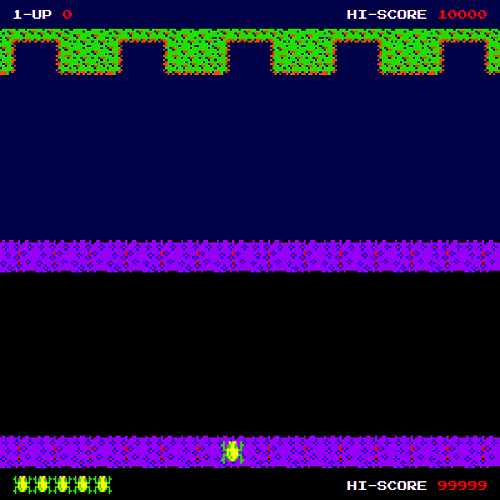
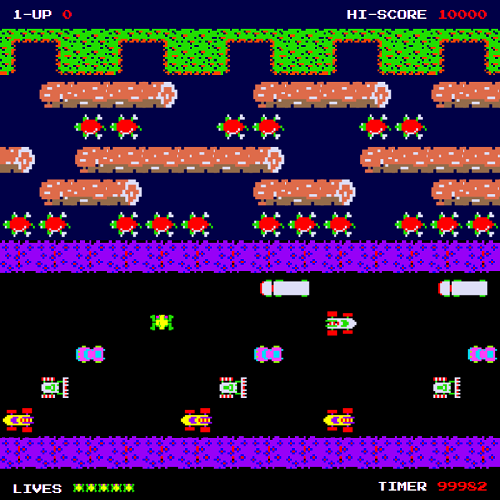
Filled board with sprites

diff --git a/src/components/frogger/frogger.tsx b/src/components/frogger/frogger.tsx
@@ -53,9 +53,9 @@ export default class Frogger extends React.Component<IFroggerProps, IFroggerStat
 			{ !this.state.isGameInPlay && <InfoBoard gameOver={ this.state.player.lives < 1 } startGame={ this.startGame } score={ this.state.player.score } /> }
 
 			{ this.state.isGameInPlay && <div>
-				<DrawSprite sprite={ this.state.player } />
+				{ this.state.sprites?.map((sprite: ISprite) => <DrawSprite key={ sprite.key } sprite={ sprite } />) }
 
-				{ this.state.sprites?.map((sprite: ISprite) => <DrawSprite sprite={ sprite } />) }
+				<DrawSprite sprite={ this.state.player } />
 			</div> }
 
 			<GameStatusBottom lives={ this.state.player.lives } timer={ this.state.time } />
@@ -113,18 +113,86 @@ export default class Frogger extends React.Component<IFroggerProps, IFroggerStat
 	private setupSprites = async () => {
 		const sprites = [
 			new Sprite({ key: 'car1-1', x: 1, y: 12, direction: DirectionEnum.LEFT, image: ImageEnum.CAR1, speed: 1 }),
-			new Sprite({ key: 'car1-2', x: 5, y: 12, direction: DirectionEnum.LEFT, image: ImageEnum.CAR1, speed: 1 }),
-			new Sprite({ key: 'car1-3', x: 9, y: 12, direction: DirectionEnum.LEFT, image: ImageEnum.CAR1, speed: 1 }),
-			new Sprite({ key: 'car1-4', x: 13, y: 12, direction: DirectionEnum.LEFT, image: ImageEnum.CAR1, speed: 1 }),
+			new Sprite({ key: 'car1-2', x: 6, y: 12, direction: DirectionEnum.LEFT, image: ImageEnum.CAR1, speed: 1 }),
+			new Sprite({ key: 'car1-3', x: 10, y: 12, direction: DirectionEnum.LEFT, image: ImageEnum.CAR1, speed: 1 }),
 
-			new Sprite({ key: 'car2', x: 3, y: 11, direction: DirectionEnum.RIGHT, image: ImageEnum.CAR2, speed: 1 }),
+			new Sprite({ key: 'car2-1', x: 2, y: 11, direction: DirectionEnum.RIGHT, image: ImageEnum.CAR2, speed: 1 }),
+			new Sprite({ key: 'car2-2', x: 7, y: 11, direction: DirectionEnum.RIGHT, image: ImageEnum.CAR2, speed: 1 }),
+			new Sprite({ key: 'car2-3', x: 13, y: 11, direction: DirectionEnum.RIGHT, image: ImageEnum.CAR2, speed: 1 }),
 
-			new Sprite({ key: 'car3', x: 5, y: 10, direction: DirectionEnum.LEFT, image: ImageEnum.CAR3, speed: 1 }),
+			new Sprite({ key: 'car3-1', x: 3, y: 10, direction: DirectionEnum.LEFT, image: ImageEnum.CAR3, speed: 1 }),
+			new Sprite({ key: 'car3-2', x: 8, y: 10, direction: DirectionEnum.LEFT, image: ImageEnum.CAR3, speed: 1 }),
+			new Sprite({ key: 'car3-3', x: 14, y: 10, direction: DirectionEnum.LEFT, image: ImageEnum.CAR3, speed: 1 }),
 
 			new Sprite({ key: 'car4', x: 10, y: 9, direction: DirectionEnum.RIGHT, image: ImageEnum.CAR4, speed: 1 }),
 
 			new Sprite({ key: 'lorry-front-1', x: 8, y: 8, direction: DirectionEnum.LEFT, image: ImageEnum.LORRY_FRONT, speed: 1 }),
 			new Sprite({ key: 'lorry-back-1', x: 9, y: 8, direction: DirectionEnum.LEFT, image: ImageEnum.LORRY_BACK, speed: 1 }),
+			new Sprite({ key: 'lorry-front-2', x: 13, y: 8, direction: DirectionEnum.LEFT, image: ImageEnum.LORRY_FRONT, speed: 1 }),
+			new Sprite({ key: 'lorry-back-2', x: 14, y: 8, direction: DirectionEnum.LEFT, image: ImageEnum.LORRY_BACK, speed: 1 }),
+
+			new Sprite({ key: 'turtle1-1', x: 1, y: 6, direction: DirectionEnum.LEFT, image: ImageEnum.TURTLE1, speed: 1 }),
+			new Sprite({ key: 'turtle1-2', x: 2, y: 6, direction: DirectionEnum.LEFT, image: ImageEnum.TURTLE1, speed: 1 }),
+
+			new Sprite({ key: 'turtle1-3', x: 4, y: 6, direction: DirectionEnum.LEFT, image: ImageEnum.TURTLE1, speed: 1 }),
+			new Sprite({ key: 'turtle1-4', x: 5, y: 6, direction: DirectionEnum.LEFT, image: ImageEnum.TURTLE1, speed: 1 }),
+			new Sprite({ key: 'turtle1-5', x: 6, y: 6, direction: DirectionEnum.LEFT, image: ImageEnum.TURTLE1, speed: 1 }),
+
+			new Sprite({ key: 'turtle1-6', x: 8, y: 6, direction: DirectionEnum.LEFT, image: ImageEnum.TURTLE1, speed: 1 }),
+			new Sprite({ key: 'turtle1-7', x: 9, y: 6, direction: DirectionEnum.LEFT, image: ImageEnum.TURTLE1, speed: 1 }),
+			new Sprite({ key: 'turtle1-8', x: 10, y: 6, direction: DirectionEnum.LEFT, image: ImageEnum.TURTLE1, speed: 1 }),
+
+			new Sprite({ key: 'turtle1-9', x: 12, y: 6, direction: DirectionEnum.LEFT, image: ImageEnum.TURTLE1, speed: 1 }),
+			new Sprite({ key: 'turtle1-10', x: 13, y: 6, direction: DirectionEnum.LEFT, image: ImageEnum.TURTLE1, speed: 1 }),
+			new Sprite({ key: 'turtle1-11', x: 14, y: 6, direction: DirectionEnum.LEFT, image: ImageEnum.TURTLE1, speed: 1 }),
+
+			new Sprite({ key: 'log1-1', x: 2, y: 5, direction: DirectionEnum.RIGHT, image: ImageEnum.LOG_LEFT, speed: 1 }),
+			new Sprite({ key: 'log1-2', x: 3, y: 5, direction: DirectionEnum.RIGHT, image: ImageEnum.LOG_CENTRE, speed: 1 }),
+			new Sprite({ key: 'log1-3', x: 4, y: 5, direction: DirectionEnum.RIGHT, image: ImageEnum.LOG_RIGHT, speed: 1 }),
+
+			new Sprite({ key: 'log1-4', x: 8, y: 5, direction: DirectionEnum.RIGHT, image: ImageEnum.LOG_LEFT, speed: 1 }),
+			new Sprite({ key: 'log1-5', x: 9, y: 5, direction: DirectionEnum.RIGHT, image: ImageEnum.LOG_CENTRE, speed: 1 }),
+			new Sprite({ key: 'log1-6', x: 10, y: 5, direction: DirectionEnum.RIGHT, image: ImageEnum.LOG_RIGHT, speed: 1 }),
+
+			new Sprite({ key: 'log1-7', x: 13, y: 5, direction: DirectionEnum.RIGHT, image: ImageEnum.LOG_LEFT, speed: 1 }),
+			new Sprite({ key: 'log1-8', x: 14, y: 5, direction: DirectionEnum.RIGHT, image: ImageEnum.LOG_CENTRE, speed: 1 }),
+			new Sprite({ key: 'log1-9', x: 15, y: 5, direction: DirectionEnum.RIGHT, image: ImageEnum.LOG_RIGHT, speed: 1 }),
+
+			new Sprite({ key: 'log2-1', x: 3, y: 4, direction: DirectionEnum.RIGHT, image: ImageEnum.LOG_LEFT, speed: 1 }),
+			new Sprite({ key: 'log2-2', x: 4, y: 4, direction: DirectionEnum.RIGHT, image: ImageEnum.LOG_CENTRE, speed: 1 }),
+			new Sprite({ key: 'log2-3', x: 5, y: 4, direction: DirectionEnum.RIGHT, image: ImageEnum.LOG_CENTRE, speed: 1 }),
+			new Sprite({ key: 'log2-4', x: 6, y: 4, direction: DirectionEnum.RIGHT, image: ImageEnum.LOG_CENTRE, speed: 1 }),
+			new Sprite({ key: 'log2-5', x: 7, y: 4, direction: DirectionEnum.RIGHT, image: ImageEnum.LOG_CENTRE, speed: 1 }),
+			new Sprite({ key: 'log2-6', x: 8, y: 4, direction: DirectionEnum.RIGHT, image: ImageEnum.LOG_RIGHT, speed: 1 }),
+
+			new Sprite({ key: 'log2-7', x: 11, y: 4, direction: DirectionEnum.RIGHT, image: ImageEnum.LOG_LEFT, speed: 1 }),
+			new Sprite({ key: 'log2-8', x: 12, y: 4, direction: DirectionEnum.RIGHT, image: ImageEnum.LOG_CENTRE, speed: 1 }),
+			new Sprite({ key: 'log2-9', x: 13, y: 4, direction: DirectionEnum.RIGHT, image: ImageEnum.LOG_CENTRE, speed: 1 }),
+			new Sprite({ key: 'log2-10', x: 14, y: 4, direction: DirectionEnum.RIGHT, image: ImageEnum.LOG_CENTRE, speed: 1 }),
+			new Sprite({ key: 'log2-11', x: 1, y: 4, direction: DirectionEnum.RIGHT, image: ImageEnum.LOG_RIGHT, speed: 1 }),
+
+			new Sprite({ key: 'turtle2-1', x: 3, y: 3, direction: DirectionEnum.LEFT, image: ImageEnum.TURTLE1, speed: 1 }),
+			new Sprite({ key: 'turtle2-2', x: 4, y: 3, direction: DirectionEnum.LEFT, image: ImageEnum.TURTLE1, speed: 1 }),
+
+			new Sprite({ key: 'turtle2-3', x: 7, y: 3, direction: DirectionEnum.LEFT, image: ImageEnum.TURTLE1, speed: 1 }),
+			new Sprite({ key: 'turtle2-4', x: 8, y: 3, direction: DirectionEnum.LEFT, image: ImageEnum.TURTLE1, speed: 1 }),
+
+			new Sprite({ key: 'turtle2-5', x: 11, y: 3, direction: DirectionEnum.LEFT, image: ImageEnum.TURTLE1, speed: 1 }),
+			new Sprite({ key: 'turtle2-6', x: 12, y: 3, direction: DirectionEnum.LEFT, image: ImageEnum.TURTLE1, speed: 1 }),
+
+			new Sprite({ key: 'log3-1', x: 2, y: 2, direction: DirectionEnum.RIGHT, image: ImageEnum.LOG_LEFT, speed: 1 }),
+			new Sprite({ key: 'log3-2', x: 3, y: 2, direction: DirectionEnum.RIGHT, image: ImageEnum.LOG_CENTRE, speed: 1 }),
+			new Sprite({ key: 'log3-3', x: 4, y: 2, direction: DirectionEnum.RIGHT, image: ImageEnum.LOG_CENTRE, speed: 1 }),
+			new Sprite({ key: 'log3-4', x: 5, y: 2, direction: DirectionEnum.RIGHT, image: ImageEnum.LOG_RIGHT, speed: 1 }),
+
+			new Sprite({ key: 'log3-5', x: 8, y: 2, direction: DirectionEnum.RIGHT, image: ImageEnum.LOG_LEFT, speed: 1 }),
+			new Sprite({ key: 'log3-6', x: 9, y: 2, direction: DirectionEnum.RIGHT, image: ImageEnum.LOG_CENTRE, speed: 1 }),
+			new Sprite({ key: 'log3-7', x: 10, y: 2, direction: DirectionEnum.RIGHT, image: ImageEnum.LOG_CENTRE, speed: 1 }),
+			new Sprite({ key: 'log3-8', x: 11, y: 2, direction: DirectionEnum.RIGHT, image: ImageEnum.LOG_RIGHT, speed: 1 }),
+
+			new Sprite({ key: 'log3-9', x: 13, y: 2, direction: DirectionEnum.RIGHT, image: ImageEnum.LOG_LEFT, speed: 1 }),
+			new Sprite({ key: 'log3-10', x: 14, y: 2, direction: DirectionEnum.RIGHT, image: ImageEnum.LOG_CENTRE, speed: 1 }),
+			new Sprite({ key: 'log3-11', x: 15, y: 2, direction: DirectionEnum.RIGHT, image: ImageEnum.LOG_RIGHT, speed: 1 }),
 		]
 
 		await this.setState(() => ({ sprites }));

diff --git a/src/classes/sprite.ts b/src/classes/sprite.ts
@@ -9,32 +9,50 @@ import car3 from '../images/car3.png';
 import car4 from '../images/car4.png';
 import lorryFront from '../images/lorry-front.png';
 import lorryBack from '../images/lorry-back.png';
+import turtle1 from '../images/turtle1.png';
+import logLeft from '../images/log-left.png';
+import logCentre from '../images/log-centre.png';
+import logRight from '../images/log-right.png';
+
 
 export default class Sprite implements ISprite {
 	public key: string;
 	public x: number;
 	public y: number;
+	public xOffset: number;
+	public yOffset: number;
+	public zIndex: number;
 	public height: number;
 	public width: number;
 	public direction: DirectionEnum;
 	public image: ImageEnum;
 	public speed: number;
 
-	readonly SPRITE_HEIGHT: number = 61.5;
+	readonly SPRITE_HEIGHT: number = 55;
 	readonly SPRITE_WIDTH: number = 61.5;
+	readonly X_OFFSET: number = 0;
+	readonly Y_OFFSET: number = 20;
+	readonly Z_INDEX: number = 5000;
 	readonly playerImages = {
 		car1,
 		car2,
 		car3,
 		car4,
 		lorryFront,
-		lorryBack
+		lorryBack,
+		turtle1,
+		logLeft,
+		logCentre,
+		logRight,
 	}
 
 	constructor(config: ISpriteProps) {
 		this.key = config.key
 		this.x = config.x;
 		this.y = config.y;
+		this.xOffset = this.X_OFFSET;
+		this.yOffset = this.Y_OFFSET;
+		this.zIndex = this.Z_INDEX;
 		this.height = this.SPRITE_HEIGHT;
 		this.width = this.SPRITE_WIDTH;
 		this.direction = config.direction

diff --git a/src/classes/player.ts b/src/classes/player.ts
@@ -12,6 +12,9 @@ export default class Player implements IPlayer {
 	public key: string;
 	public x: number;
 	public y: number;
+	public xOffset: number;
+	public yOffset: number;
+	public zIndex: number
 	public height: number;
 	public width: number;
 	public direction: DirectionEnum;
@@ -23,8 +26,11 @@ export default class Player implements IPlayer {
 	readonly INITIAL_PLAYER_LIVES: number = 5;
 	readonly INITIAL_PLAYER_X: number = 7;
 	readonly INITIAL_PLAYER_Y: number = 13;
-	readonly PLAYER_HEIGHT: number = 40;
-	readonly PLAYER_WIDTH: number = 40;
+	readonly PLAYER_HEIGHT: number = 55;
+	readonly PLAYER_WIDTH: number = 61.5;
+	readonly X_OFFSET: number = 0;
+	readonly Y_OFFSET: number = 20;
+	readonly PLAYER_ZINDEX: number = 6000;
 	readonly playerImages: string[] = [
 		playerUp,
 		playerDown,
@@ -36,6 +42,9 @@ export default class Player implements IPlayer {
 		this.key = 'player';
 		this.x = config.initialPlayerX || this.INITIAL_PLAYER_X;
 		this.y = config.initialPlayerY || this.INITIAL_PLAYER_Y;
+		this.xOffset = this.X_OFFSET;
+		this.yOffset = this.Y_OFFSET;
+		this.zIndex = this.PLAYER_ZINDEX;
 		this.height = config.playerHeight || this.PLAYER_HEIGHT;
 		this.width = config.playerWidth || this.PLAYER_WIDTH;
 		this.direction = DirectionEnum.UP;

diff --git a/src/components/game-status-bottom/game-status-bottom.tsx b/src/components/game-status-bottom/game-status-bottom.tsx
@@ -3,7 +3,7 @@ import { range } from 'lodash';
 
 import IGameStatusBottomProps from './interfaces/game-status-bottom-props';
 
-import playerUp from '../../images/player-up.png';
+import lives from '../../images/lives.png';
 
 import './styles/game-status-bottom.scss';
 
@@ -11,7 +11,7 @@ export default class GameStatusBottom extends React.Component<IGameStatusBottomP
 
 	public render() {
 		return <div className="game-status-bottom">
-			<div className="game-status-left">{ range(this.props.lives).map((fishIndex: number) => <img className="player-lives" key={ `lives-image-${ fishIndex }` } src={ playerUp } alt="lives" />) }</div>
+			<div className="game-status-left">LIVES { range(this.props.lives).map((livesIndex: number) => <img className="player-lives" key={ `lives-image-${ livesIndex }` } src={ lives } alt="lives" />) }</div>
 			<div className="game-status-right">TIMER <span className="score-text">{ this.props.timer }</span></div>
 		</div>
 	}

diff --git a/src/components/draw-sprite/draw-sprite.tsx b/src/components/draw-sprite/draw-sprite.tsx
@@ -19,8 +19,8 @@ export default class DrawSprite extends React.Component<IDrawSpriteProps, {}> {
 		width: 0,
 		height: 0,
 		opacity: 1,
-		WebkitTransform: `translate3d(${ (x - 1) * 57 + 10 }px, ${ y * 52 + 28 }px, 0)`,
-		transform: `translate3d(${ (x - 1) * 57 + 10 }px, ${ y * 52 + 28 }px, 0)`,
-		zIndex: 5000
+		WebkitTransform: `translate3d(${ (x - 1) * 57 + this.props.sprite.xOffset }px, ${ y * 52 + this.props.sprite.yOffset }px, 0)`,
+		transform: `translate3d(${ (x - 1) * 57 + this.props.sprite.xOffset }px, ${ y * 52 + this.props.sprite.yOffset }px, 0)`,
+		zIndex: this.props.sprite.zIndex,
 	})
 }

diff --git a/src/classes/interfaces/image-enum.ts b/src/classes/interfaces/image-enum.ts
@@ -5,6 +5,10 @@ enum ImageEnum {
 	CAR4 = 'car4',
 	LORRY_FRONT = 'lorryFront',
 	LORRY_BACK = 'lorryBack',
+	TURTLE1 = 'turtle1',
+	LOG_LEFT = 'logLeft',
+	LOG_CENTRE = 'logCentre',
+	LOG_RIGHT = 'logRight',
 }
 
 export default ImageEnum;

diff --git a/src/components/game-status-bottom/styles/game-status-bottom.scss b/src/components/game-status-bottom/styles/game-status-bottom.scss
@@ -13,11 +13,12 @@ $hi-score-text-colour:		red;
 
 	.game-status-left {
 		margin-left: 20px;
+		margin-top: 10px;
 		float: left;
 
 		.player-lives {
-			height: 2em;
-			width: 2em;
+			height: 20px;
+			width: 20px;
 		}
 	}
 	

diff --git a/src/classes/interfaces/player.ts b/src/classes/interfaces/player.ts
@@ -4,6 +4,9 @@ export default interface IPlayer {
 	key: string;
 	x: number;
 	y: number;
+	xOffset: number;
+	yOffset: number;
+	zIndex: number
 	height: number;
 	width: number;
 	direction: DirectionEnum;

diff --git a/src/classes/interfaces/sprite.ts b/src/classes/interfaces/sprite.ts
@@ -5,6 +5,9 @@ export default interface ISprite {
 	key: string;
 	x: number;
 	y: number;
+	xOffset: number;
+	yOffset: number;
+	zIndex: number
 	height: number;
 	width: number;
 	direction: DirectionEnum;
